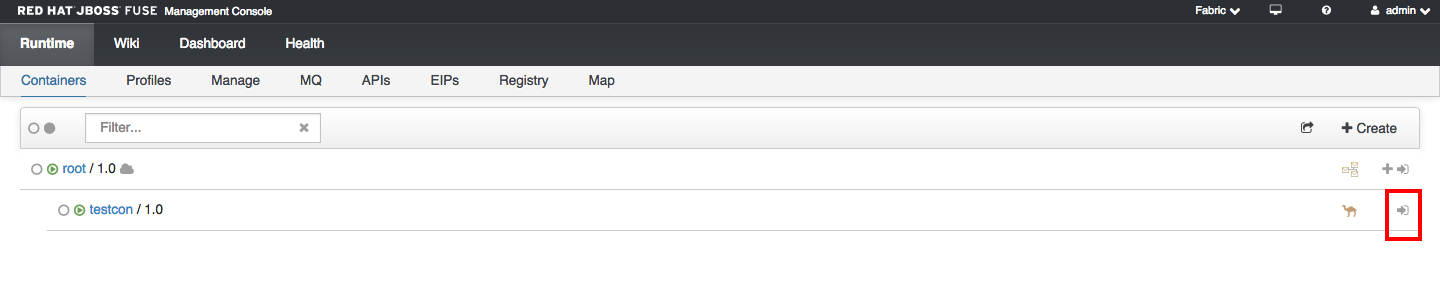
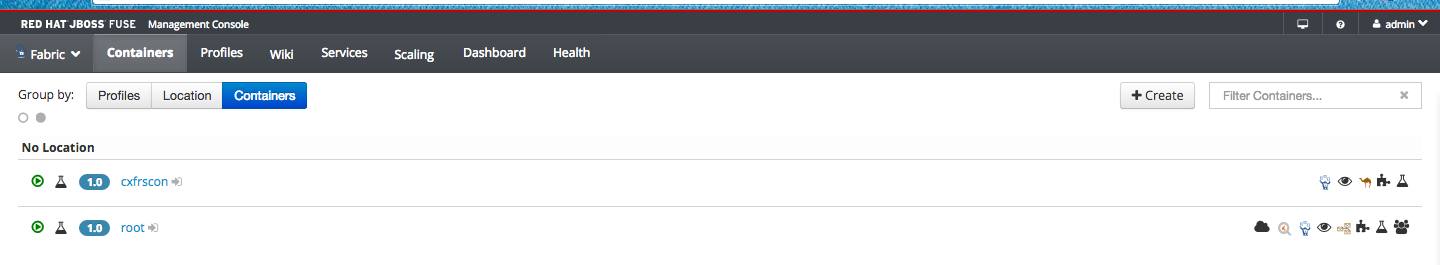
Migrate from Fuse 6.1 to 6.2

diff --git a/README.md b/README.md
@@ -32,15 +32,20 @@ To run the demo, in browser enter http://localhost:8181 and login with ID/PWD of
 Under Runtime, you will see list of containers, and click on the small icon on the righthand-side of the testcon container
 ![Fabric list](https://raw.githubusercontent.com/weimeilin79/claim-cxf-cxfrs/master/doc/pic/01-fabric-container-list.png?raw=true)
 You can also checkout the registry
-![Fabric list](https://raw.githubusercontent.com/weimeilin79/claim-cxf-cxfrs/master/doc/pic/02-registry.png?raw=true)
+![Fabric list](https://raw.githubusercontent.com/jbossdemocentral/claim-cxf-cxfrs/master/doc/pic/02-registry.png?raw=true)
+
+In the APIs view you will also find all the avaliable web services regiestered in the fabric
+![Fabric list](https://raw.githubusercontent.com/jbossdemocentral/claim-cxf-cxfrs/master/doc/pic/05-webservices.png?raw=true)
 
 And either use browser to run it 
-![Fabric list](https://raw.githubusercontent.com/weimeilin79/claim-cxf-cxfrs/master/doc/pic/03-browser.png?raw=true)
+![Fabric list](https://raw.githubusercontent.com/jbossdemocentral/claim-cxf-cxfrs/master/doc/pic/03-browser.png?raw=true)
+
 Or you can use SOAP UI to play with the SOAP Web Services.
-![Fabric list](https://raw.githubusercontent.com/weimeilin79/claim-cxf-cxfrs/master/doc/pic/04-soapui.png?raw=true)
+![Fabric list](https://raw.githubusercontent.com/jbossdemocentral/claim-cxf-cxfrs/master/doc/pic/04-soapui.png?raw=true)
 
 
 The demo video are located here too:
+(The videos are base on version Fuse 6.1)
 
 https://vimeo.com/115418661
 https://vimeo.com/115560431

diff --git a/installs/README.md b/installs/README.md
@@ -1,0 +1,11 @@
+
+Download the following from the JBoss Customer Portal
+
+ * Fuse (jboss-fuse-full-6.2.0.redhat-133.zip)
+
+and copy to this directory for the init.sh script to work.
+
+Ensure that this file is executable by running:
+
+chmod +x <path-to-project>/installs/jboss-fuse-full-6.2.0.redhat-133.zip
+
